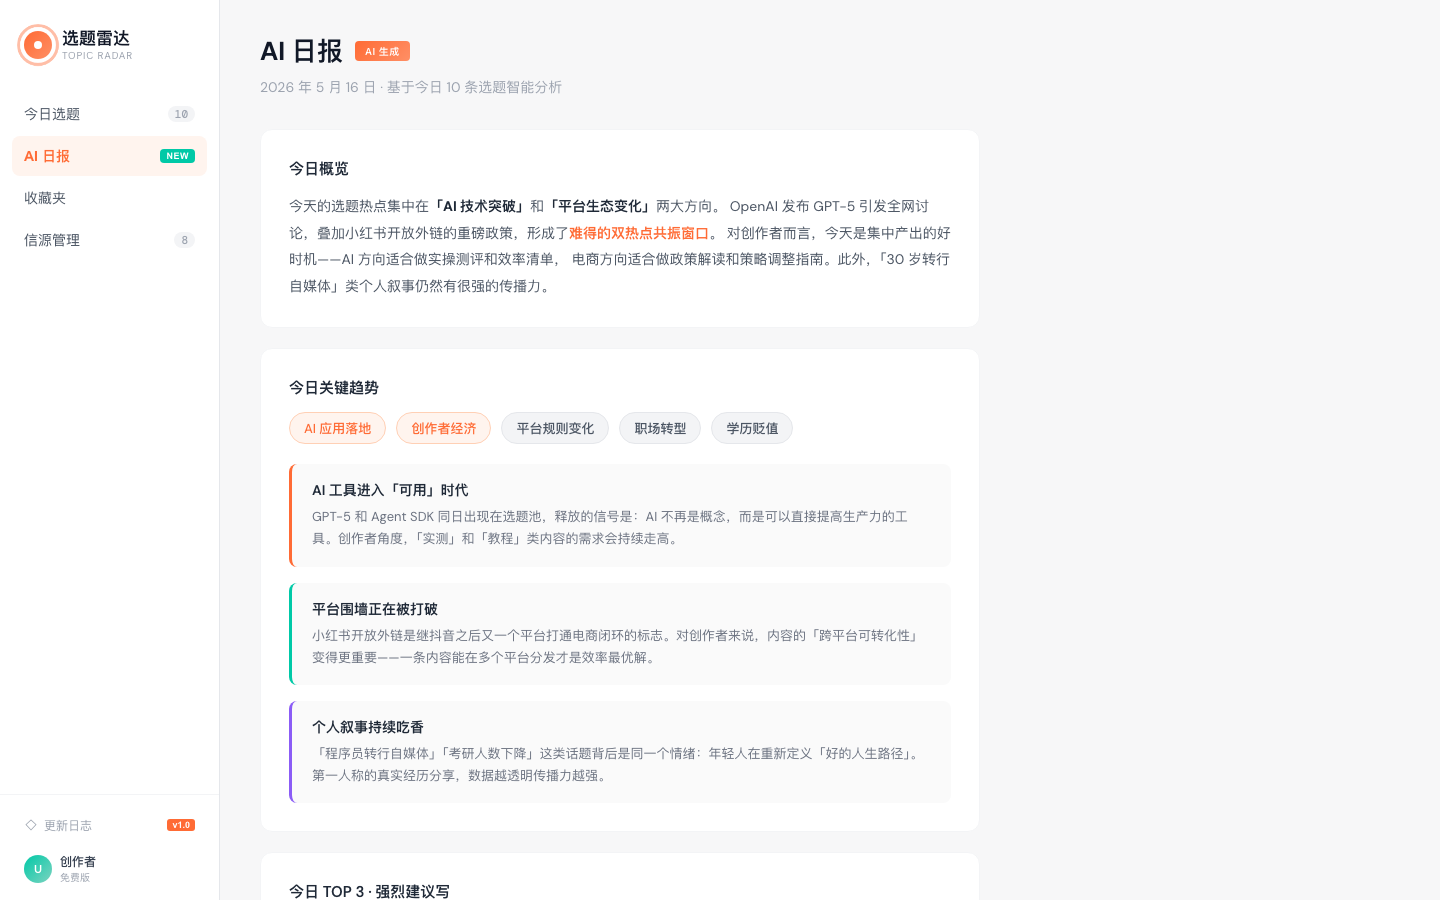
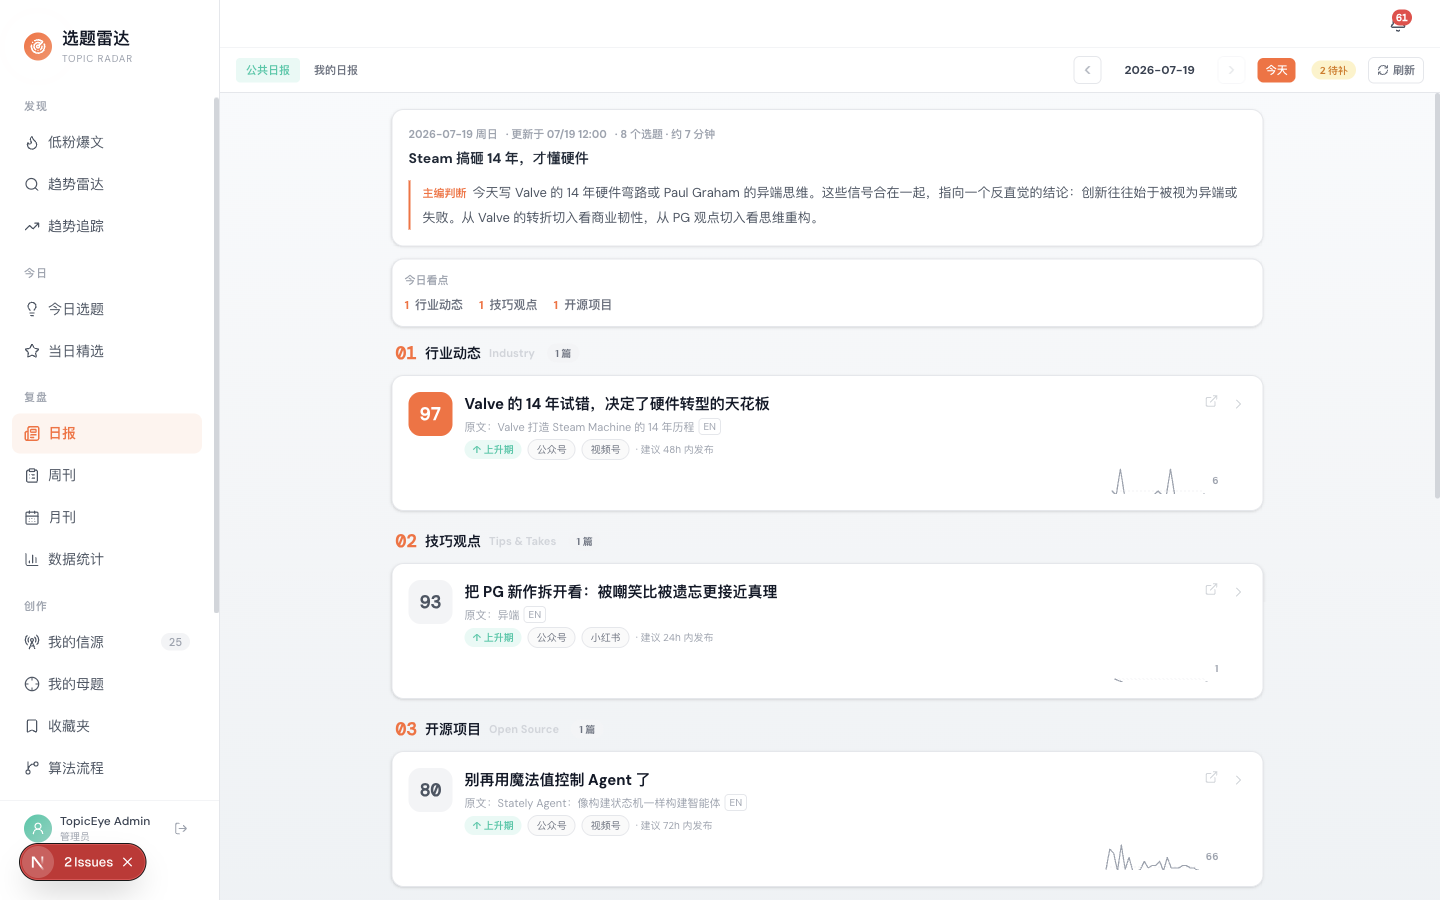
docs: 文档更新

diff --git a/README.md b/README.md
@@ -17,16 +17,20 @@ TopicEye continuously crawls 25+ sources (RSS, Reddit, YouTube, podcasts, newsle
 
 ## Why TopicEye
 
-- **Transparent scoring engine, not a black box.** Every selected item ships with a full breakdown: base score (information density / actionability / creator value / viral potential / source authority / freshness), quality gates, time decay, diversity penalty, and feedback signal. See [`algorithm` page](docs/screenshots/screenshot-timeline.png) in the app.
+- **Transparent scoring engine, not a black box.** Every selected item ships with a full breakdown: base score (information density / actionability / creator value / viral potential / source authority / freshness), quality gates, time decay, diversity penalty, and feedback signal. See the [`algorithm` page](docs/screenshots/screenshot-algorithm.png) in the app.
 - **Feedback closes the loop.** Your 👍 / 👎 doesn't just get saved — it is weighted at 15% and feeds back into ranking. The engine gets sharper the more you use it.
 - **Self-host friendly.** Full Docker setup, SQLite or PostgreSQL, OAuth login (Google / GitHub). Your data stays yours.
-- **Agent-native (planned).** The scoring engine is being exposed as a stable API so other agents and tools can call it as their ranking layer. See the [roadmap](ROADMAP.md).
+- **Agent-native (planned).** The scoring engine is being exposed as a stable API so other agents and tools can call it as their ranking layer.
 
 ## Screenshots
 
-| Today's Picks | Timeline | Daily Report |
+| Today's Picks | Trending Radar | Low-Follower Viral |
 |---|---|---|
-| ![today](docs/screenshots/screenshot-today.png) | ![timeline](docs/screenshots/screenshot-timeline.png) | ![daily](docs/screenshots/screenshot-daily.png) |
+| ![today](docs/screenshots/screenshot-today.png) | ![trending](docs/screenshots/screenshot-trending.png) | ![lfv](docs/screenshots/screenshot-low-follower-viral.png) |
+
+| Daily Report | Algorithm Flow | Stats Dashboard |
+|---|---|---|
+| ![daily](docs/screenshots/screenshot-daily.png) | ![algorithm](docs/screenshots/screenshot-algorithm.png) | ![stats](docs/screenshots/screenshot-stats.png) |
 
 ## Features
 
@@ -122,19 +126,9 @@ curl -X POST http://127.0.0.1:8102/api/v1/sources/1/sync
 
 The project uses Conventional Commits (`feat(auth): ...`, `fix(cache): ...`). See [CONTRIBUTING.md](CONTRIBUTING.md) for the full workflow, and [AGENTS.md](AGENTS.md) for the commit discipline enforced in this repo.
 
-## Roadmap
-
-We just shipped **v0.3.0** (public/private sources, user-owned daily reports). Up next:
-
-- **v0.4.0 — Open-source readiness:** Apache-2.0 license, English README, contributor docs, source-contributor plugin protocol, webnovel-CN feature flag. [Full roadmap →](ROADMAP.md)
-- **v0.5.0 — Agent-native scoring API:** expose the 6-dimension engine + low-follower-viral detection as a stable, key-authenticated API so other agents can call it.
-- **v0.6.0 — Commercialization prep:** multi-user quotas + Stripe subscriptions (gated behind real adoption signals).
-
 ## Contributing
 
-Contributions are welcome — especially **new source connectors** (RSS feeds, podcast indexes, newsletter scrapers, trending boards). Each connector is a self-contained, well-scoped PR that's perfect for a first contribution.
-
-See [CONTRIBUTING.md](CONTRIBUTING.md) for setup, code style, and how to add a source. Feel free to open an issue with the `good first issue` label to find a starter task.
+Contributions are welcome. See [CONTRIBUTING.md](CONTRIBUTING.md) for setup, code style, and workflow. Feel free to open an issue with the `good first issue` label to find a starter task.
 
 ## License
 

diff --git a/README.zh-CN.md b/README.zh-CN.md
@@ -16,13 +16,17 @@ AI 驱动的内容发现与选题分析平台。TopicEye 持续抓取 25+ 信源
 - **透明的评分引擎，不是黑盒。** 每条精选内容都带完整评分拆解：基础分（信息密度 / 可操作性 / 创作者价值 / 爆文潜力 / 来源权威 / 时效新鲜）、质量门槛、时效衰减、多样性惩罚、反馈信号。
 - **反馈闭环校准。** 你的 👍 / 👎 不只是被收藏——它以 15% 权重回灌进排序权重，引擎越用越准。
 - **支持自部署。** 完整 Docker 方案，SQLite 或 PostgreSQL，OAuth 登录（Google / GitHub）。数据归你所有。
-- **Agent-native（规划中）。** 评分引擎正在以稳定 API 形式开放，让别的 Agent / 工具可以把它作为排序层调用。见 [路线图](ROADMAP.md)。
+- **Agent-native（规划中）。** 评分引擎正在以稳定 API 形式开放，让别的 Agent / 工具可以把它作为排序层调用。
 
 ## 截图
 
-| 今日精选 | 时间线 | 日报 |
+| 今日选题 | 趋势雷达 | 低粉爆文 |
 |---|---|---|
-| ![today](docs/screenshots/screenshot-today.png) | ![timeline](docs/screenshots/screenshot-timeline.png) | ![daily](docs/screenshots/screenshot-daily.png) |
+| ![today](docs/screenshots/screenshot-today.png) | ![trending](docs/screenshots/screenshot-trending.png) | ![lfv](docs/screenshots/screenshot-low-follower-viral.png) |
+
+| 日报 | 算法流程 | 数据统计 |
+|---|---|---|
+| ![daily](docs/screenshots/screenshot-daily.png) | ![algorithm](docs/screenshots/screenshot-algorithm.png) | ![stats](docs/screenshots/screenshot-stats.png) |
 
 ## 功能模块
 
@@ -115,19 +119,9 @@ curl -X POST http://127.0.0.1:8102/api/v1/sources/1/sync
 
 项目使用 Conventional Commits（`feat(auth): ...`、`fix(cache): ...`）。完整工作流见 [CONTRIBUTING.md](CONTRIBUTING.md)，本仓库强制执行的提交规范见 [AGENTS.md](AGENTS.md)。
 
-## 路线图
-
-刚发布 **v0.3.0**（公共/私有信源双层模型、用户专属日报）。接下来：
-
-- **v0.4.0 — 开源就绪：** Apache-2.0 协议、英文 README、贡献者文档、信源贡献插件协议、网文配置开关。[完整路线图 →](ROADMAP.md)
-- **v0.5.0 — Agent-native 评分 API：** 把 6 维评分引擎 + 低粉爆文识别以稳定 API（key 鉴权）开放，让别的 Agent 可以调用。
-- **v0.6.0 — 商业化前置：** 多用户配额 + Stripe 订阅（只在真实采用信号出现后启动）。
-
 ## 贡献
 
-欢迎贡献——尤其是**新信源连接器**（RSS 源、播客索引、Newsletter 爬虫、热榜）。每个连接器是一个自包含、边界清晰的 PR，非常适合作为首次贡献。
-
-详见 [CONTRIBUTING.md](CONTRIBUTING.md)（环境搭建、代码风格、如何新增信源）。可以认领带 `good first issue` 标签的 issue 作为入门任务。
+欢迎贡献。详见 [CONTRIBUTING.md](CONTRIBUTING.md)（环境搭建、代码风格、工作流）。可以认领带 `good first issue` 标签的 issue 作为入门任务。
 
 ## 协议
 
